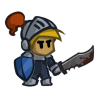
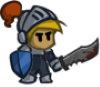
init basic movement added option to increased number of players

diff --git a/src/GameController.cpp b/src/GameController.cpp
@@ -2,11 +2,14 @@
 #include "GameController.h"
 
 GameController::GameController()
-	:m_window(sf::VideoMode(WINDOW_WIDTH, WINDOW_HEIGHT), "BattleHeart") , m_cleric(sf::Vector2f(200,200))
+	:m_window(sf::VideoMode(WINDOW_WIDTH, WINDOW_HEIGHT), "Battle Heart")
 {
 	m_bg.setTexture(*Resources::instance().getBackground(0));
 	m_bg.setColor(sf::Color(255, 255, 255, 255));
 	m_selected.setTexture(*Resources::instance().getTexture(_select));
+
+	m_players.push_back(std::make_unique < Cleric >(sf::Vector2f(200, 200)));
+	m_players.push_back(std::make_unique < Knight >(sf::Vector2f(300, 300)));
 
 	auto origin = m_selected.getOrigin();
 	m_selected.setOrigin( origin.x + 45 , origin.y - 20);
@@ -52,39 +55,43 @@ void GameController::MouseClick(sf::Vector2f location)
 {
 
 	static bool stopCondition = false;
-	if (m_cleric.handleCollision(location))
+	for (int i= 0; i< m_players.size(); i++)
 	{
-		m_selected.setPosition(m_cleric.getPosition().x , m_cleric.getPosition().y);
-		m_charSelected = true;
 
-		while (!stopCondition)
+		if (m_players[i]->checkCollision(location))
 		{
+			m_selected.setPosition(m_players[i]->getPosition().x, m_players[i]->getPosition().y);
+			m_charSelected = true;
 
-			drawGame();
-
-			for (auto event = sf::Event{}; m_window.waitEvent(event) && !stopCondition; )
+			while (!stopCondition)
 			{
-				switch (event.type)
+
+				drawGame();
+
+				for (auto event = sf::Event{}; m_window.waitEvent(event) && !stopCondition; )
 				{
-
-				case sf::Event::Closed:
-					m_window.close();
-					break;
-
-				case sf::Event::MouseButtonPressed:
-
-					auto mouseLoc = m_window.mapPixelToCoords(
-						{ event.mouseButton.x, event.mouseButton.y });
-
-					m_selected.setPosition(mouseLoc);
-
-					if (!stopCondition)
+					switch (event.type)
 					{
-						stopCondition = true;
-						movePlayer(mouseLoc);
-						m_charSelected = false;
+
+					case sf::Event::Closed:
+						m_window.close();
+						break;
+
+					case sf::Event::MouseButtonPressed:
+
+						auto mouseLoc = m_window.mapPixelToCoords(
+							{ event.mouseButton.x, event.mouseButton.y });
+
+						m_selected.setPosition(mouseLoc);
+
+						if (!stopCondition)
+						{
+							stopCondition = true;
+							movePlayer( i , mouseLoc );
+							m_charSelected = false;
+						}
+						break;
 					}
-					break;
 				}
 			}
 		}
@@ -103,22 +110,25 @@ void GameController::drawGame()
 	if(m_charSelected)
 		m_window.draw(m_selected);
 
-	m_cleric.draw(m_window);
+	for (int i = 0; i < m_players.size(); i++)
+	{
+		m_players[i]->draw(m_window);
+	}
 	m_window.display();
 }
 
 //=======================================================================================
 
-void GameController::movePlayer(sf::Vector2f dest)
+void GameController::movePlayer(int playerIndex , sf::Vector2f dest)
 {
 	sf::Clock clock;
 
-	auto direction = dest - m_cleric.getPosition();
+	auto direction = dest - m_players[playerIndex]->getPosition();
 
-	while (m_cleric.moveValidator(dest))
+	while (m_players[playerIndex]->moveValidator(dest))
 	{
 		auto delta = clock.restart().asSeconds();
-		m_cleric.movePlayer(direction, delta);
+		m_players[playerIndex]->movePlayer(direction, delta);
 		drawGame();
 	}
 }

diff --git a/src/Player.cpp b/src/Player.cpp
@@ -15,10 +15,14 @@ void Player::draw(sf::RenderWindow& window)
 	window.draw(m_sprite);
 }
 
+//==========================================================
+
 sf::Vector2f Player::getPosition() const
 {
 	return m_sprite.getPosition();
 }
+
+//==========================================================
 
 bool Player::moveValidator(sf::Vector2f dest)
 {
@@ -26,9 +30,19 @@ bool Player::moveValidator(sf::Vector2f dest)
 	return (std::abs(m_sprite.getPosition().x - dest.x) > epsilon || std::abs(m_sprite.getPosition().y - dest.y) > epsilon);
 }
 
+//==========================================================
+
 void Player::movePlayer(sf::Vector2f direction, float delta)
 {
-	auto speedPerSecond = 0.5f;
+	float distance = std::sqrt(std::pow(direction.x, 2) + std::pow(direction.y, 2));
+	auto speedPerSecond = 140.f / distance ;
 	m_sprite.move(direction * speedPerSecond * delta);
 	m_hpBar.setPosition(m_sprite.getPosition());
+}
+
+//==========================================================
+
+bool Player::checkCollision(sf::Vector2f location)
+{
+	return m_sprite.getGlobalBounds().contains(location);
 }

diff --git a/include/GameController.h b/include/GameController.h
@@ -3,6 +3,7 @@
 #include "Resources.h"
 #include "HealthBar.h"
 #include "Cleric.h"
+#include "Knight.h"
 
 using std::vector;
 
@@ -16,14 +17,18 @@ public:
 	void resetBoard();
 
 private:
-	void movePlayer(sf::Vector2f dest);
+	void movePlayer(int playerIndex, sf::Vector2f dest);
 	void drawGame();
 	void MouseClick(sf::Vector2f location);
 
 	sf::RenderWindow m_window;
 	sf::Sprite m_bg;
 	sf::Sprite m_selected;
-	Cleric m_cleric;
+
+	std::vector < std::unique_ptr < Player > > m_players;
+
+	//Cleric m_cleric;
+	//Knight m_knight;
 
 	bool m_charSelected = false;
 

diff --git a/src/Knight.cpp b/src/Knight.cpp
@@ -1,0 +1,12 @@
+
+#include "Knight.h"
+
+Knight::Knight(const sf::Vector2f pos)
+	:Player(pos)
+{
+	m_sprite.setTexture(*Resources::instance().getTexture(_knight));
+
+	auto size = m_sprite.getTexture()->getSize();
+	m_sprite.setOrigin(size.x / 2, size.y / 2);
+
+}

diff --git a/include/Cleric.h b/include/Cleric.h
@@ -8,10 +8,6 @@ class Cleric : public Player
 public:
 	Cleric(const sf::Vector2f pos);
 	~Cleric() = default;
-	
-	//void draw(sf::RenderWindow& window);
-
-	bool handleCollision(sf::Vector2f loc);
 
 	void hitPlayer();
 

diff --git a/include/Player.h b/include/Player.h
@@ -13,6 +13,7 @@ public:
 
 	bool moveValidator(sf::Vector2f dest);
 	void movePlayer(sf::Vector2f direction, float delta);
+	bool checkCollision(sf::Vector2f loc);
 
 protected:
 	sf::Vector2f m_loc;

diff --git a/src/Cleric.cpp b/src/Cleric.cpp
@@ -24,7 +24,3 @@ void Cleric::hitPlayer()
 	m_hpBar.lowerHealth(1);
 }
 
-bool Cleric::handleCollision(sf::Vector2f location)
-{
-	return m_sprite.getGlobalBounds().contains(location);
-}

diff --git a/include/Knight.h b/include/Knight.h
@@ -1,2 +1,13 @@
 #pragma once
 
+#include "Player.h"
+
+class Knight : public Player
+{
+public:
+	Knight(const sf::Vector2f pos);
+	~Knight() = default;
+
+private:
+
+};
